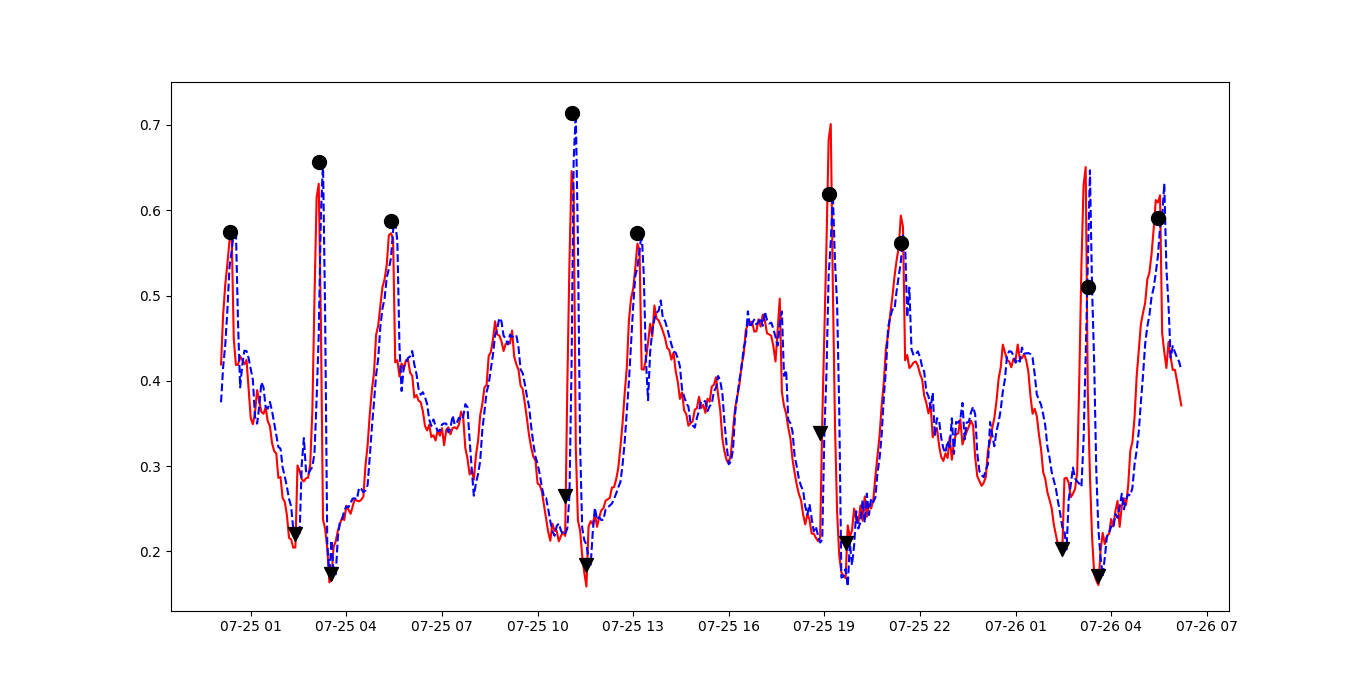
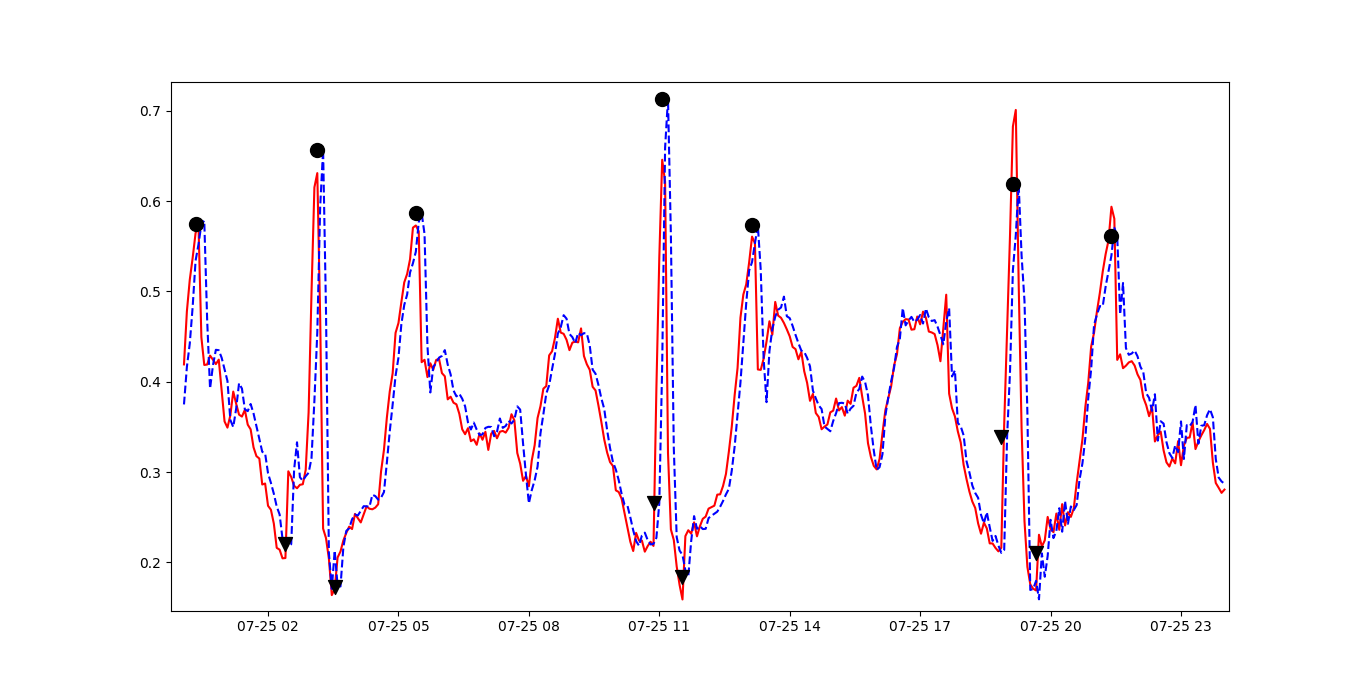
add image

diff --git a/testbed/result/thunghiem01.py b/testbed/result/thunghiem01.py
@@ -18,17 +18,17 @@ def mean_absolute_percentage_error(y_true, y_pred):
 if __name__ == '__main__':
     ax = plt.subplot()
 
-    file_name = 'data.v3_2_4.result.csv'
-    # file_name = 'data.result.csv'
+    # file_name = 'data.v3_2_4.result.csv'
+    file_name = 'data.result.csv'
 
     data = pd.read_csv(file_name, header=None)
 
     time = pd.to_datetime(data[0], format='%Y-%m-%d %H:%M:%S')
 
     real_data = pd.Series(np.asarray(data[1]), index=time)
-    real_data = real_data.interpolate()
+    real_data = real_data.interpolate()[:360]
     predict_data = pd.Series(np.asarray(data[2]), index=time)
-    predict_data = predict_data.interpolate()
+    predict_data = predict_data.interpolate()[:360]
     scale_up = pd.Series(np.asarray(data[3]), index=time)
     scale_down = pd.Series(np.asarray(data[4]), index=time)
 
